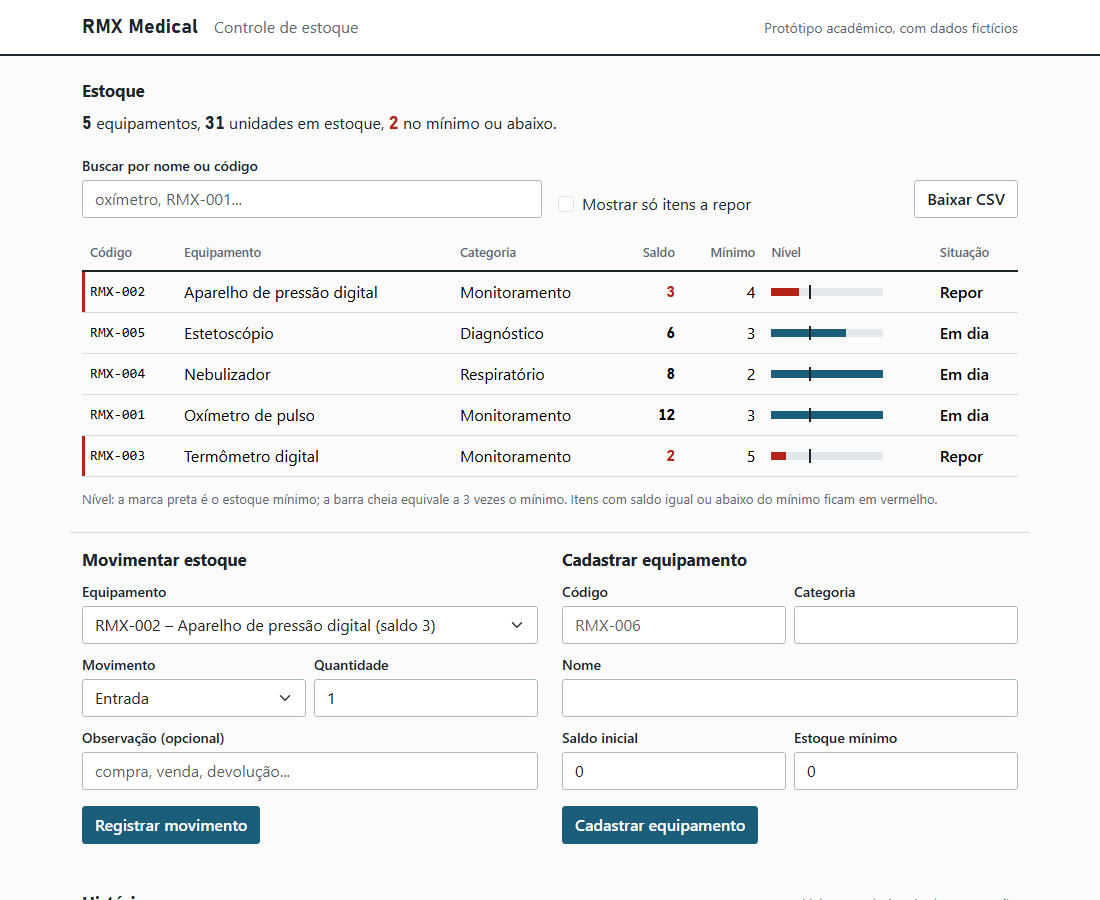
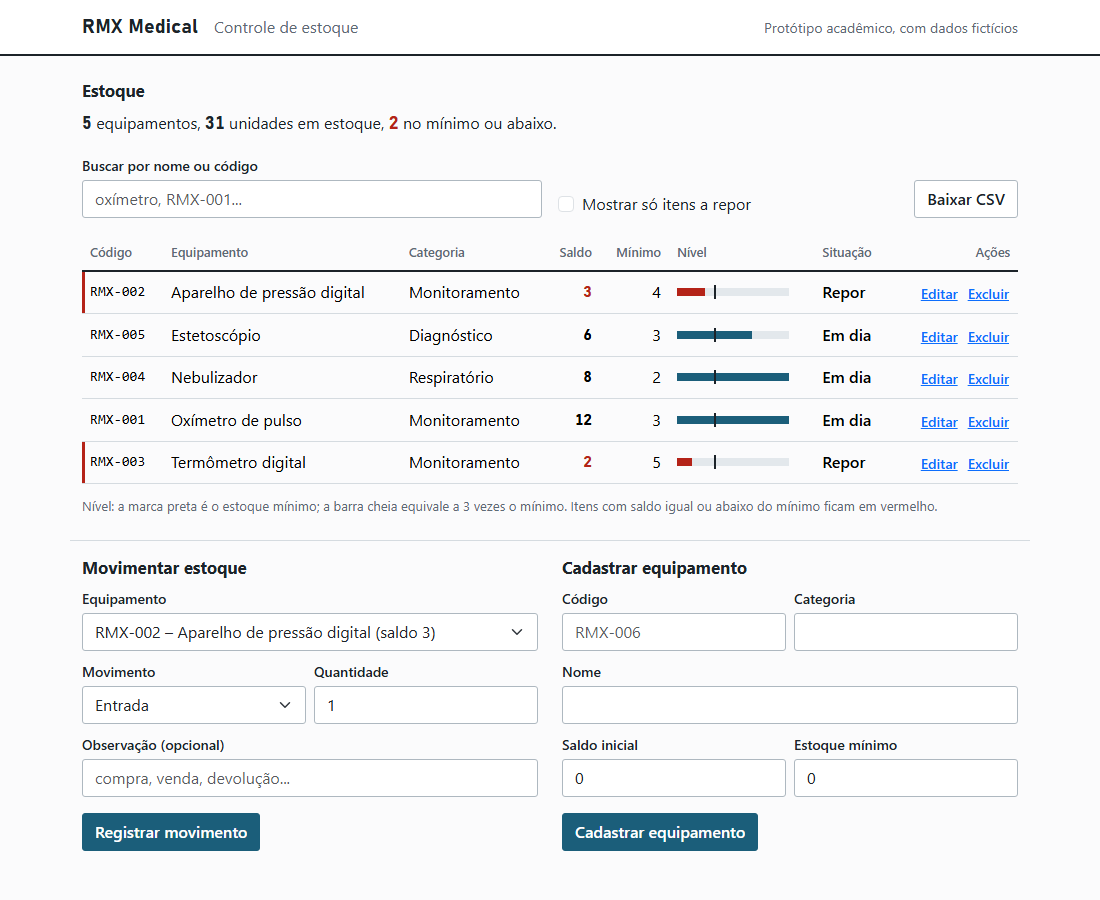
Adiciona editar e excluir ao prototipo e ajusta o retorno do responsavel

diff --git a/sistema/app.js b/sistema/app.js
@@ -61,6 +61,32 @@ function cadastrar({ codigo, nome, categoria, minimo, saldo }) {
   banco = novo; gravar();
 }
 
+// Equivale a UPDATE produtos SET codigo, nome, categoria, minimo. O saldo não muda aqui: só por movimento.
+function editar(id, { codigo, nome, categoria, minimo }) {
+  codigo = String(codigo || "").trim().toUpperCase();
+  nome = String(nome || "").trim();
+  categoria = String(categoria || "").trim();
+  if (!banco.produtos.some((x) => x.id === id)) throw new ErroRegra("Equipamento inexistente.");
+  if (!codigo || !nome || !categoria) throw new ErroRegra("Preencha código, nome e categoria.");
+  if (!inteiroNaoNegativo(minimo)) throw new ErroRegra("O mínimo deve ser um número inteiro, sem negativos.");
+  if (banco.produtos.some((x) => x.codigo === codigo && x.id !== id)) throw new ErroRegra(`O código ${codigo} já está cadastrado.`);
+  const novo = JSON.parse(JSON.stringify(banco));
+  Object.assign(novo.produtos.find((x) => x.id === id), { codigo, nome, categoria, minimo });
+  banco = novo; gravar();
+}
+
+// Equivale a DELETE FROM produtos, que no MySQL falha (ON DELETE RESTRICT) se já existe movimento do item.
+function excluir(id) {
+  const p = banco.produtos.find((x) => x.id === id);
+  if (!p) throw new ErroRegra("Equipamento inexistente.");
+  if (banco.movimentos.some((m) => m.produto_id === id)) {
+    throw new ErroRegra(`${p.nome} não pode ser excluído: já tem movimentos no histórico. Só dá para excluir um cadastro que nunca teve movimento (por exemplo, um cadastro feito por engano com saldo 0).`);
+  }
+  const novo = JSON.parse(JSON.stringify(banco));
+  novo.produtos = novo.produtos.filter((x) => x.id !== id);
+  banco = novo; gravar();
+}
+
 function movimentar(produtoId, tipo, quantidade, observacao) {
   const p = banco.produtos.find((x) => x.id === produtoId);
   if (!p) throw new ErroRegra("Equipamento inexistente.");
@@ -126,7 +152,7 @@ function desenhar() {
   if (!lista.length) {
     const tr = document.createElement("tr");
     const td = celula(tr, "Nenhum equipamento encontrado.", "text-center text-secondary py-4");
-    td.colSpan = 7;
+    td.colSpan = 8;
     tb.appendChild(tr);
   }
   lista.forEach((p) => {
@@ -149,6 +175,15 @@ function desenhar() {
     tdNivel.appendChild(barra);
 
     celula(tr, baixo ? "Repor" : "Em dia", baixo ? "situacao-repor" : "situacao-ok");
+
+    const tdAcoes = celula(tr, "", "acoes text-end text-nowrap");
+    [["Editar", "editar"], ["Excluir", "excluir"]].forEach(([texto, acao]) => {
+      const b = document.createElement("button");
+      b.type = "button"; b.textContent = texto; b.dataset.acao = acao; b.dataset.id = p.id;
+      b.className = "btn btn-link btn-sm p-0 ms-2 " + (acao === "excluir" ? "link-excluir" : "");
+      b.setAttribute("aria-label", `${texto} ${p.nome}`);
+      tdAcoes.appendChild(b);
+    });
     tb.appendChild(tr);
   });
 
@@ -196,13 +231,59 @@ function tratar(acao, msgOk) {
 $("busca").addEventListener("input", desenhar);
 $("so-repor").addEventListener("change", desenhar);
 
+// Quando editandoId tem um número, o formulário de cadastro está em modo de edição.
+let editandoId = null;
+
+function modoEdicao(p) {
+  editandoId = p ? p.id : null;
+  $("t-cad").textContent = p ? "Editar equipamento" : "Cadastrar equipamento";
+  $("btn-salvar").textContent = p ? "Salvar alterações" : "Cadastrar equipamento";
+  $("cancelar-edicao").hidden = !p;
+  $("p-saldo").disabled = !!p;
+  $("dica-saldo").hidden = !p;
+  if (p) {
+    $("p-codigo").value = p.codigo; $("p-nome").value = p.nome; $("p-categoria").value = p.categoria;
+    $("p-minimo").value = p.minimo; $("p-saldo").value = p.quantidade;
+  } else {
+    $("form-produto").reset();
+  }
+}
+
 $("form-produto").addEventListener("submit", (e) => {
   e.preventDefault();
+  if (editandoId !== null) {
+    const id = editandoId;
+    const ok = tratar(() => editar(id, {
+      codigo: $("p-codigo").value, nome: $("p-nome").value, categoria: $("p-categoria").value,
+      minimo: Number($("p-minimo").value),
+    }), () => `Equipamento atualizado: ${$("p-nome").value.trim()}.`);
+    if (ok) modoEdicao(null);
+    return;
+  }
   const ok = tratar(() => cadastrar({
     codigo: $("p-codigo").value, nome: $("p-nome").value, categoria: $("p-categoria").value,
     minimo: Number($("p-minimo").value), saldo: Number($("p-saldo").value),
   }), () => `Equipamento cadastrado: ${$("p-nome").value.trim()}.`);
   if (ok) e.target.reset();
+});
+
+$("cancelar-edicao").addEventListener("click", () => { modoEdicao(null); aviso("", "info"); });
+
+$("tabela").addEventListener("click", (e) => {
+  const b = e.target.closest("button[data-acao]");
+  if (!b) return;
+  const id = Number(b.dataset.id);
+  const p = banco.produtos.find((x) => x.id === id);
+  if (!p) return;
+  if (b.dataset.acao === "editar") {
+    modoEdicao(p); aviso("", "info");
+    $("form-produto").scrollIntoView({ behavior: "smooth", block: "center" });
+    $("p-nome").focus();
+    return;
+  }
+  if (!window.confirm(`Excluir o cadastro de ${p.nome} (${p.codigo})?`)) return;
+  tratar(() => excluir(id), `Equipamento excluído: ${p.nome}.`);
+  if (editandoId === id) modoEdicao(null);
 });
 
 $("form-mov").addEventListener("submit", (e) => {
@@ -221,7 +302,7 @@ $("exportar").addEventListener("click", () => {
 });
 
 $("restaurar").addEventListener("click", () => {
-  banco = DEMO(); gravar(); aviso("Dados de demonstração restaurados.", "info"); desenhar();
+  banco = DEMO(); gravar(); modoEdicao(null); aviso("Dados de demonstração restaurados.", "info"); desenhar();
 });
 
 desenhar();

diff --git a/index.html b/index.html
@@ -63,7 +63,7 @@
   <!-- Protótipo -->
   <section class="bloco miolo" id="prototipo">
     <h2>O protótipo</h2>
-    <p class="intro">É uma página web simples. Dá pra cadastrar os equipamentos, registrar o que entra e o que sai, ver o saldo de cada item e ver na hora o que está no mínimo. Tudo com dados de exemplo.</p>
+    <p class="intro">É uma página web simples. Dá pra cadastrar, editar e excluir equipamentos, registrar o que entra e o que sai, ver o saldo de cada item e ver na hora o que está no mínimo. Tudo com dados de exemplo.</p>
 
     <div class="telas">
       <figure class="tela larga">
@@ -110,7 +110,7 @@
     <div class="retorno">
       <p class="dados">19/11/2026 · presencial · 1 pessoa</p>
       <blockquote>
-        <p>Achou o sistema bem organizado, fácil de usar, e disse que ajuda no controle de entrada e saída dos equipamentos, além de avisar quando o estoque está baixo.</p>
+        <p>Achou o sistema bem organizado, fácil de usar, e disse que ajuda no controle de entrada e saída dos equipamentos.</p>
       </blockquote>
       <p><b>Sugestão que ele deixou:</b> colocar um login para os funcionários.</p>
       <p class="aviso">É um resumo do que foi dito durante a apresentação. Ele autorizou citar o nome da empresa.</p>
@@ -123,7 +123,7 @@
     <ul class="lista">
       <li>Login para os funcionários, como foi sugerido.</li>
       <li>Ligar a página direto ao MySQL (hoje os dois seguem as mesmas regras, mas não estão conectados).</li>
-      <li>Editar e excluir cadastros, e controlar lote ou número de série, se a empresa precisar.</li>
+      <li>Controlar lote ou número de série, se a empresa precisar.</li>
     </ul>
     <p class="aviso">É um protótipo de faculdade, com dados de exemplo. Ainda não foi validado no dia a dia da empresa.</p>
   </section>

diff --git a/sistema/index.html b/sistema/index.html
@@ -49,7 +49,7 @@
             <tr>
               <th scope="col">Código</th><th scope="col">Equipamento</th><th scope="col">Categoria</th>
               <th scope="col" class="text-end">Saldo</th><th scope="col" class="text-end">Mínimo</th>
-              <th scope="col">Nível</th><th scope="col">Situação</th>
+              <th scope="col">Nível</th><th scope="col">Situação</th><th scope="col" class="text-end">Ações</th>
             </tr>
           </thead>
           <tbody id="tabela"></tbody>
@@ -87,11 +87,13 @@
             <div class="col-12"><label class="form-label" for="p-nome">Nome</label>
               <input id="p-nome" class="form-control" maxlength="80" required></div>
             <div class="col-6"><label class="form-label" for="p-saldo">Saldo inicial</label>
-              <input id="p-saldo" type="number" min="0" step="1" value="0" class="form-control" required></div>
+              <input id="p-saldo" type="number" min="0" step="1" value="0" class="form-control" required>
+              <div id="dica-saldo" class="form-text" hidden>O saldo só muda por entrada ou saída.</div></div>
             <div class="col-6"><label class="form-label" for="p-minimo">Estoque mínimo</label>
               <input id="p-minimo" type="number" min="0" step="1" value="0" class="form-control" required></div>
           </div>
-          <button class="btn btn-primario mt-3" type="submit">Cadastrar equipamento</button>
+          <button id="btn-salvar" class="btn btn-primario mt-3" type="submit">Cadastrar equipamento</button>
+          <button id="cancelar-edicao" class="btn btn-secundario mt-3 ms-2" type="button" hidden>Cancelar</button>
         </form>
       </section>
     </div>

diff --git a/sistema/LEIA-ME.md b/sistema/LEIA-ME.md
@@ -13,6 +13,7 @@ Como verificar a funcionalidade principal:
 - Em "Movimentar estoque", escolha o Oxímetro, tipo Saída, quantidade 99: aparece "Saldo insuficiente" e nada é gravado.
 - Repita com quantidade 2: o saldo vai de 12 para 10 e a saída aparece no histórico.
 - Cadastre um equipamento novo; tente repetir o mesmo código (é recusado).
+- Em cada linha, "Editar" altera código, nome, categoria e mínimo (o saldo só muda por movimento); "Excluir" é recusado se o item já tem movimentos (como a chave estrangeira do banco). Cadastre um item com saldo 0 e exclua: funciona.
 - "Baixar CSV" baixa a lista; "Voltar aos dados de demonstração" volta ao início.
 
 ## 2) Banco de dados (MySQL 8.0.16 ou superior, no MySQL Workbench)
